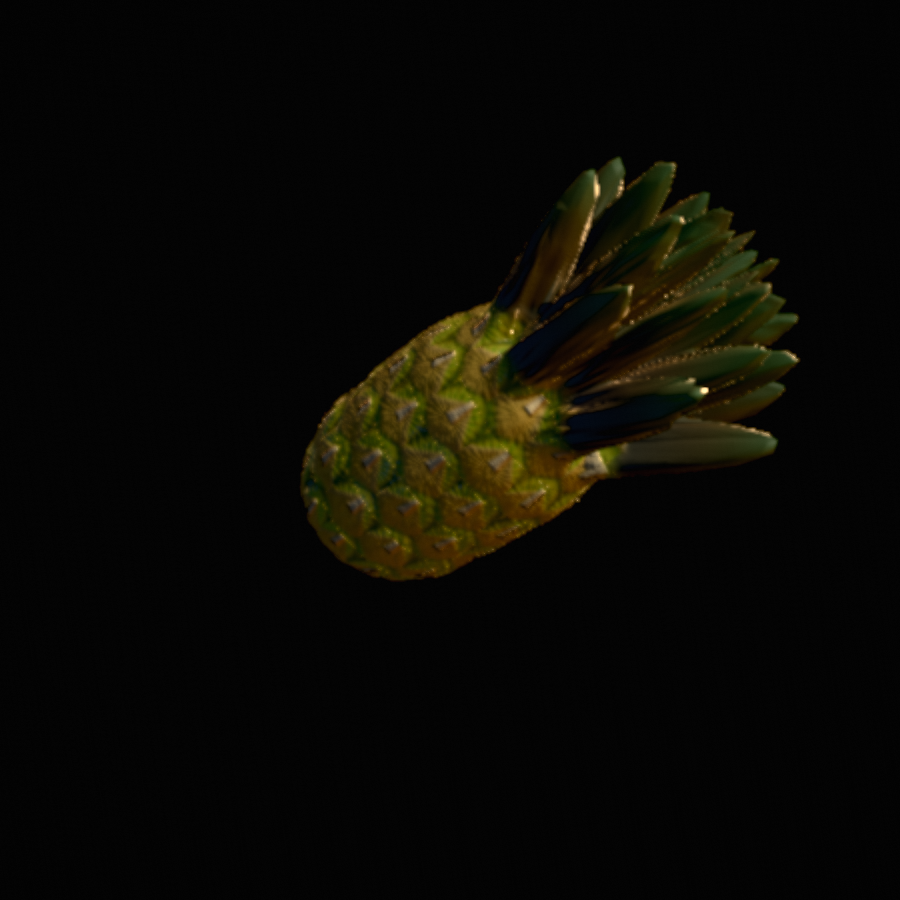
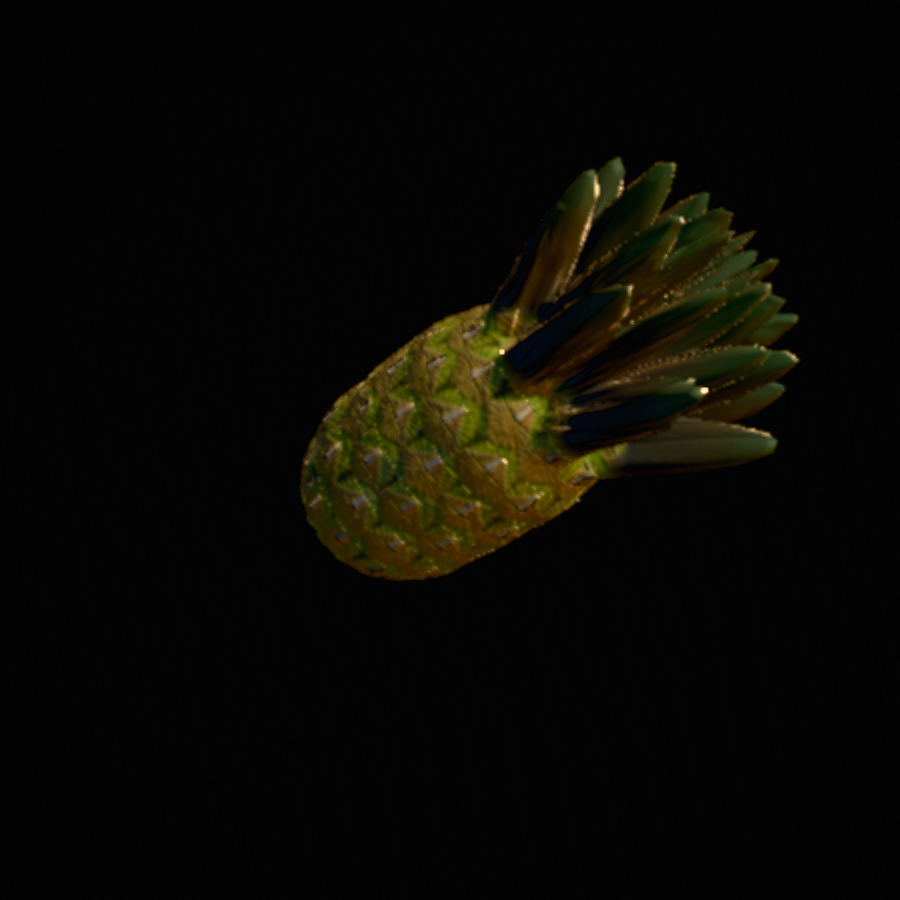
r47h: pineapple — darker ring edge, brighter yellow, thorns that catch light, the crease, tighter rows
Player: darker green right at the edge of the rings; the yellow brighter
so it pops instead of muddy and washed out; thorns a touch lighter tan
and picking up light; and the horizontal line from the base of each
spike across to the tops of the lower row's hexes, which needs tighter
vertical packing.

Rim (0.018, 0.045, 0.005) at full mix; gold up to (0.44, 0.37, 0.09) and
glossier (roughGold 0.30) with grain, veins and scuffs eased; the thorn
gets its own roughness (roughThorn 0.25) and more relief (2.2) in a
lighter tan; a new crease term — a short dark line from the thorn's base
toward the cell sides (creaseW 0.36, mix 0.30; the first cut at full
width read as belts across every row); rows 2.5 with taller eyes
(aspect 0.66, eyeR 0.62) so the scales overlap more. Six candidates.
drawprobe/fruitviews clean.

diff --git a/src/fruit/species.js b/src/fruit/species.js
@@ -3864,15 +3864,17 @@ def({
 // them at runtime (window.__zsPine.set(name, value) in the harness) and the
 // shipped defaults below are what that loop settled on. Colours are linear.
 const PINE_DEFAULTS = {
-  rows: 2.30, skew: 0.42, sheathVein: 0.40, blemMix: 0.20, sheathV: 0.60, eyeY: 0.04, eyeR: 0.60,
-  eyeAspect: 0.72, tipY: 0.44, bractW: 0.60, bractCurve: 0.85, spread: 0.50, grain: 0.12,
-  veinMix: 0.18, eyeMix: 0.95, eyeGrad: 1.00, eyePow: 4.00, rimMix: 0.95, rimLow: -0.25,
-  rimW: 0.22, bractMix: 0.90, bractOverEye: 0.88, soft: 3.00, jit: 0.80, lipMix: 0.20, lipH: 0.15,
-  roughGold: 0.36, roughEye: 0.40, roughBract: 0.45, eyeH: 0.80, bractH: 0.25, thornH: 1.80,
-  thornW: 0.06, thornLen: 0.50, gold: [0.4000, 0.3300, 0.0800],
-  goldGreen: [0.3400, 0.3200, 0.0700], vein: [0.2400, 0.1400, 0.0500],
-  eyeGreen: [0.0700, 0.1600, 0.0200], eyeYellow: [0.4200, 0.3400, 0.0900],
-  rim: [0.0280, 0.0600, 0.0070], tan: [0.3400, 0.2500, 0.1000], thorn: [0.4000, 0.3400, 0.2400],
+  rows: 2.50, skew: 0.42, sheathVein: 0.40, blemMix: 0.15, sheathV: 0.60, creaseMix: 0.30,
+  creaseH: 0.35, roughThorn: 0.25, creaseW: 0.36, eyeY: 0.04, eyeR: 0.62, eyeAspect: 0.66,
+  tipY: 0.44, bractW: 0.60, bractCurve: 0.85, spread: 0.50, grain: 0.10, veinMix: 0.12,
+  eyeMix: 0.95, eyeGrad: 1.00, eyePow: 4.00, rimMix: 1.00, rimLow: -0.25, rimW: 0.22,
+  bractMix: 0.90, bractOverEye: 0.88, soft: 3.00, jit: 0.80, lipMix: 0.20, lipH: 0.15,
+  roughGold: 0.30, roughEye: 0.40, roughBract: 0.45, eyeH: 0.80, bractH: 0.25, thornH: 2.20,
+  thornW: 0.05, thornLen: 0.50, gold: [0.4400, 0.3700, 0.0900],
+  goldGreen: [0.3700, 0.3500, 0.0800], vein: [0.2400, 0.1400, 0.0500],
+  eyeGreen: [0.0600, 0.1500, 0.0180], eyeYellow: [0.4600, 0.3800, 0.1000],
+  rim: [0.0180, 0.0450, 0.0050], tan: [0.3400, 0.2500, 0.1000], thorn: [0.4400, 0.3800, 0.2800],
+  creaseC: [0.0500, 0.0650, 0.0180],
 };
 // fruitlets around the barrel — a JS constant (cellPt's wrap), not a uniform
 const PINE_AROUND = 12;
@@ -3981,8 +3983,12 @@ def({
       const tw = PINE.thornW.mul(tu.oneMinus().mul(0.85).add(0.15));
       const thorn = ss(sw.mul(0.03), sw.mul(-0.005), ox.sub(tw)).mul(ss(tBot.sub(0.03), tBot.add(0.03), oy)).mul(ss(tTop.add(0.02), tTop.sub(0.02), oy)).toVar();
       const lip = inside.mul(ss(0.0, sw.mul(0.05), ox.sub(halfW).abs())).oneMinus().mul(inside).toVar();
+      // the crease: a dark horizontal line from the thorn's base out to the
+      // cell's sides, where the sheath folds over the fruitlet (the player:
+      // "touching the top of the adjacent hexes from the lower row")
+      const crease = ss(0.045, 0.012, oy.sub(tBot).abs()).mul(ss(PINE.creaseW, PINE.creaseW.mul(0.5), ox)).toVar();
       return { eye: own.eye, rim: own.rim, stria: own.stria, core: own.core, below,
-        bract: inside, thorn, lip, id: c.id, fade: cellFade(p).toVar(), v, p };
+        bract: inside, thorn, lip, crease, id: c.id, fade: cellFade(p).toVar(), v, p };
     };
     const grain = (f, u, k) => fbm2(vec2(f.P.x.add(f.P.y), f.P.z.sub(f.P.y)).mul(k), 2, u.detail);
     return skinMaterial(this, {
@@ -4011,17 +4017,19 @@ def({
         // the sheath is opaque where it lies over the eye (only the eye's upper
         // crescent shows, as in the photo) and subtler over the gold
         alb.assign(mix(alb, tan, e.bract.mul(mix(PINE.bractMix, PINE.bractOverEye, e.eye))));
+        alb.assign(mix(alb, PINE.creaseC, e.crease.mul(PINE.creaseMix)));
         alb.assign(mix(alb, PINE.thorn, max(e.thorn, e.lip.mul(PINE.lipMix)).mul(0.9)));
         // scuffs and blemishes: sparse low-frequency brown patches on the flats
         const blem = ss(0.55, 0.85, fbm2(vec2(f.P.x.mul(2.2).add(f.P.z.mul(1.7)), f.P.y.mul(2.6)), 2, u.detail).mul(0.5).add(0.5)).mul(max(e.eye, e.below.eye).oneMinus()).toVar();
         alb.assign(mix(alb, PINE.vein.mul(0.8), blem.mul(PINE.blemMix)));
         return mix(mix(gold, PINE.tan, 0.35), alb, e.fade);
       },
-      rough: (f) => { const e = eyes(f); return mix(PINE.roughGold, PINE.roughEye, max(e.eye, e.below.eye)).add(e.bract.mul(PINE.roughBract)); },
+      rough: (f) => { const e = eyes(f); return mix(mix(PINE.roughGold, PINE.roughEye, max(e.eye, e.below.eye)).add(e.bract.mul(PINE.roughBract)), PINE.roughThorn, e.thorn); },
       relief: (f, u) => {
         const e = eyes(f);
         return max(e.eye, e.below.eye).mul(PINE.eyeH).sub(max(e.rim, e.below.rim).mul(0.2)).add(e.stria.mul(0.12))
           .add(e.bract.mul(PINE.bractH)).add(e.lip.mul(PINE.lipH)).add(e.thorn.mul(PINE.thornH))
+          .sub(e.crease.mul(PINE.creaseH))
           .mul(e.fade).add(grain(f, u, 20.0).mul(0.2));
       },
     }, {
